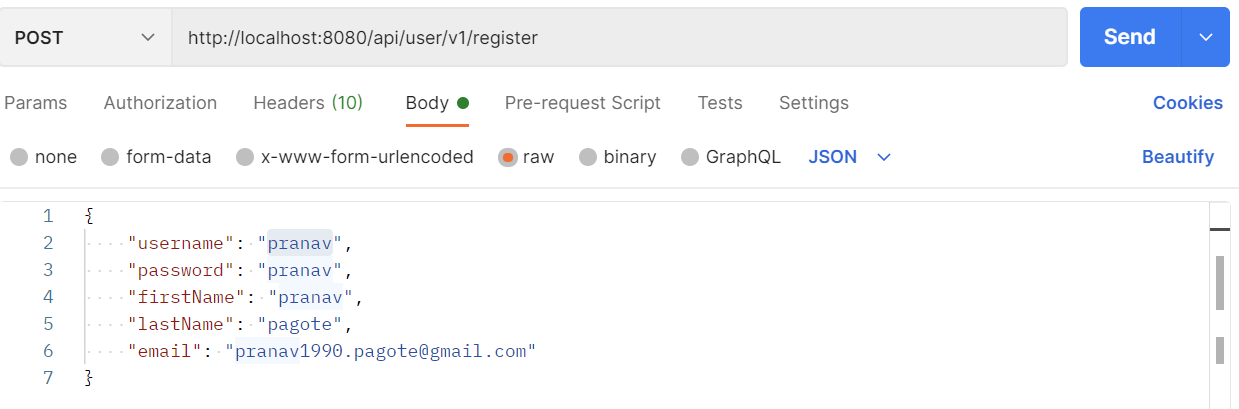
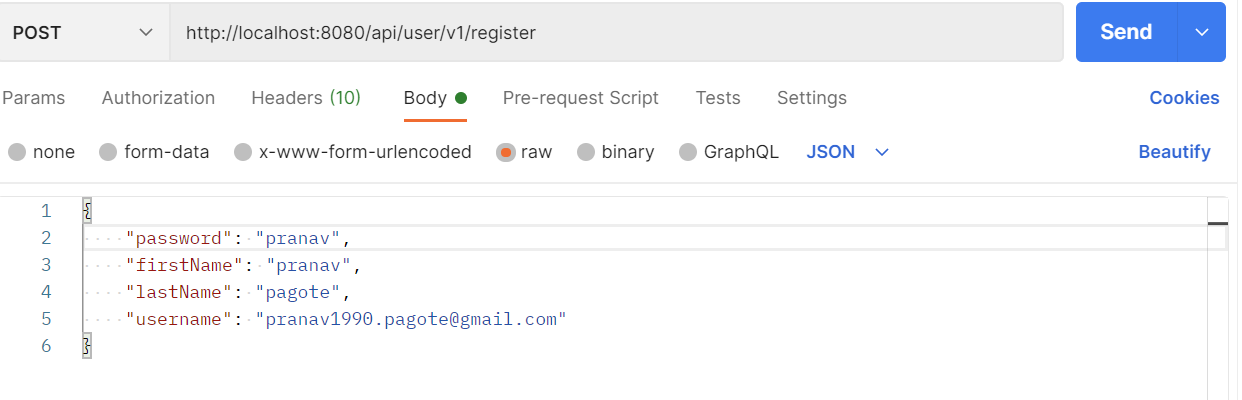
updated User model

diff --git a/src/main/java/com/uk/org/ps/publicissapienttask/service/UserService.java b/src/main/java/com/uk/org/ps/publicissapienttask/service/UserService.java
@@ -19,24 +19,24 @@ public class UserService implements UserDetailsService {
     private final UserRepository userRepository;
     private final PasswordEncoder passwordEncoder;
 
-    public String addDetails(UserDTO userDto) {
+    public UserModel addDetails(UserDTO userDto) {
         userDto.setPassword(passwordEncoder.bCryptPasswordEncoder()
                 .encode(userDto.getPassword()));
 
         UserModel userModel = new UserModel();
-        userModel.setEmail(userDto.getEmail());
+        //userModel.setEmail(userDto.getEmail());
         userModel.setUsername(userDto.getUsername());
         userModel.setPassword(userDto.getPassword());
         userModel.setFirstName(userDto.getFirstName());
         userModel.setLastName(userDto.getLastName());
 
-        return userRepository.save(userModel).getId();
+        return userRepository.save(userModel);
     }
 
     @Override
-    public UserDetails loadUserByUsername(String s) throws UsernameNotFoundException {
+    public UserDetails loadUserByUsername(String s) throws UsernameNotFoundException{
         UserModel user = userRepository.findByUsername(s);
-        if (user.getUsername().equals(s)) {
+        if (user !=null && user.getUsername().equals(s)) {
             return new org.springframework.security.core.userdetails.User(user.getUsername(),
                     user.getPassword(), new ArrayList<>());
         } else {

diff --git a/src/main/java/com/uk/org/ps/publicissapienttask/security/JWTAuthenticationFilter.java b/src/main/java/com/uk/org/ps/publicissapienttask/security/JWTAuthenticationFilter.java
@@ -41,8 +41,6 @@ public class JWTAuthenticationFilter extends UsernamePasswordAuthenticationFilte
                     .lines()
                     .collect(Collectors.joining("\n"));
             JSONObject jsonObject = new JSONObject(text);
-          /*  User creds = new ObjectMapper()
-                    .readValue(req.getInputStream(), User.class);*/
             User creds = new User(jsonObject.getString("username"),
                     jsonObject.getString("password"), new ArrayList<>());
             return authenticationManager.authenticate(
@@ -66,9 +64,11 @@ public class JWTAuthenticationFilter extends UsernamePasswordAuthenticationFilte
                 .withExpiresAt(new Date(System.currentTimeMillis() + SecurityConstants.EXPIRATION_TIME))
                 .sign(Algorithm.HMAC512(SecurityConstants.SECRET.getBytes()));
 
-        String body = ((User) auth.getPrincipal()).getUsername() + " " + token;
+        JSONObject jsonObject = new JSONObject();
+        jsonObject.put("username", ((User) auth.getPrincipal()).getUsername());
+        jsonObject.put("token", token);
 
-        res.getWriter().write(body);
+        res.getWriter().write(jsonObject.toString());
         res.getWriter().flush();
     }
 }

diff --git a/src/main/java/com/uk/org/ps/publicissapienttask/model/UserModel.java b/src/main/java/com/uk/org/ps/publicissapienttask/model/UserModel.java
@@ -1,5 +1,6 @@
 package com.uk.org.ps.publicissapienttask.model;
 
+import com.fasterxml.jackson.annotation.JsonIgnore;
 import lombok.*;
 
 import javax.persistence.*;
@@ -21,10 +22,12 @@ public class UserModel implements Serializable {
     @Column(name = "id")
     private String id;
 
-    @Column(name = "username", nullable = false)
+    @Column(name = "username", nullable = false, unique = true)
+    @Email
     private String username;
 
     @Column(name = "password", nullable = false)
+    @JsonIgnore
     private String password;
 
     @Column(name = "first_name", nullable = false)
@@ -33,8 +36,8 @@ public class UserModel implements Serializable {
     @Column(name = "last_name", nullable = false)
     private String lastName;
 
-    @Column(name = "email", nullable = false, unique = true)
+    /*@Column(name = "email", nullable = false, unique = true)
     @Email
-    private String email;
+    private String email;*/
 
 }

diff --git a/src/main/java/com/uk/org/ps/publicissapienttask/controller/UserController.java b/src/main/java/com/uk/org/ps/publicissapienttask/controller/UserController.java
@@ -30,10 +30,9 @@ public class UserController {
             @ApiResponse(code = 500, message = "Internal Server Error", response = ErrorDetails.class),
             @ApiResponse(code = 400, message = "Bad Request", response = ErrorDetails.class),
     })
-    public String addDetails(
+    public UserModel addDetails(
             @ApiParam(required = true, name = "user", value = "Add user")
             @RequestBody @Valid UserDTO user) {
-
         return userService.addDetails(user);
     }
 

diff --git a/src/main/java/com/uk/org/ps/publicissapienttask/dto/UserDTO.java b/src/main/java/com/uk/org/ps/publicissapienttask/dto/UserDTO.java
@@ -14,9 +14,6 @@ import javax.validation.constraints.NotNull;
 public class UserDTO {
 
     @NotNull
-    private String username;
-
-    @NotNull
     private String password;
 
     @NotNull
@@ -26,5 +23,5 @@ public class UserDTO {
     private String lastName;
 
     @NotNull
-    private String email;
+    private String username;
 }

diff --git a/src/main/java/com/uk/org/ps/publicissapienttask/exception/GlobalExceptionHandler.java b/src/main/java/com/uk/org/ps/publicissapienttask/exception/GlobalExceptionHandler.java
@@ -15,7 +15,6 @@ import org.springframework.web.servlet.mvc.method.annotation.ResponseEntityExcep
 import java.time.LocalDateTime;
 import java.util.stream.Collectors;
 
-/*@RestController*/
 @ControllerAdvice
 @Api(tags = {"Errors"})
 public class GlobalExceptionHandler extends ResponseEntityExceptionHandler {
